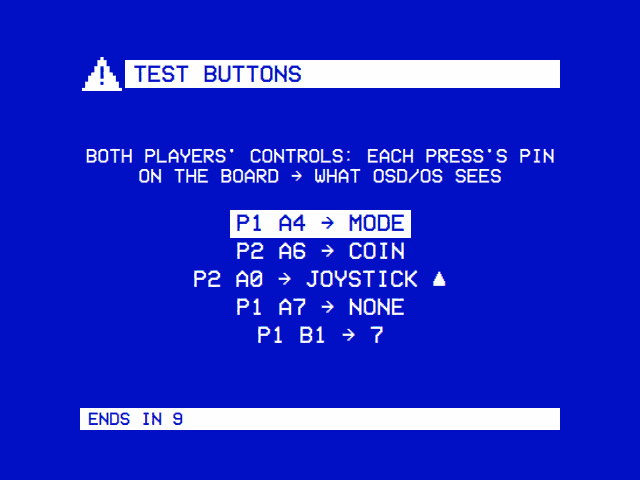
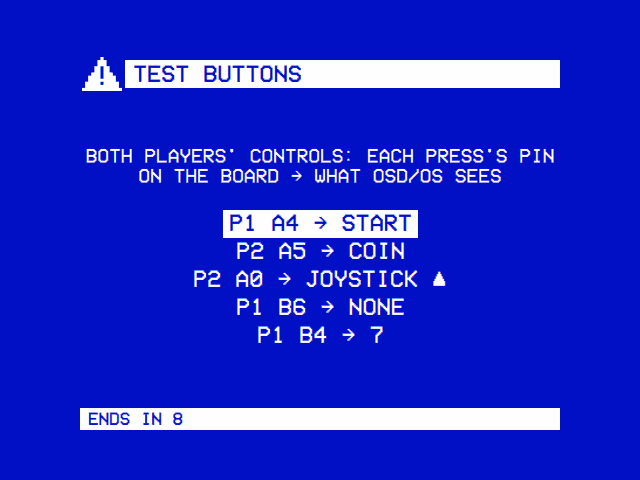
fix: JAMMA controls in the Crown board's pin order
The built-in mapping of osdos-jamma followed JammaPi's layout (joypi):
START on A5, COIN on A6, a mode button on A4, and the buttons counted
down from B7. Crown Arcade's Raspberry Pi to JAMMA board is wired in the
order of the driver Crown gives for it (mk_arcade_joystick_rpi): the
joystick on A0-A3, START on A4, COIN on A5, then buttons 1 to 6 on A6 to
B3. On a Crown board START therefore read as MODE, COIN as START, and
the buttons came out in the wrong order.

The built-in mapping is now the Crown board's, on both expanders:
buttons 1 to 6 as a, b, x, y, tl and tr (MAME's buttons 1 to 6), 7 and 8
on B4 and B5, z and mode on B6 and B7. A board wired in JammaPi's layout
gets it back with an osdos-jamma.txt, given in full on the Controls wiki
page, which also says to reset the JAMMA sticks' bindings made for the
old pins. The button test's screenshot is retaken with the new pins.

Changed region(s): [[0.3438, 0.4375, 0.6562, 0.5312], [0.4688, 0.6875, 0.5312, 0.7188], [0.4375, 0.625, 0.5, 0.6562]]

diff --git a/tests/jamma_test.cpp b/tests/jamma_test.cpp
@@ -31,21 +31,23 @@ class JammaTest : public QObject {
     Q_OBJECT
 
 private slots:
-    void defaultMapIsRgbPis() {
-        // The layout RGB-Pi's JAMMA driver (joypi) reads, the same on both
-        // chips: the joystick and Start, Coin on GPA, the buttons from GPB7 down.
+    void defaultMapIsCrowns() {
+        // The layout Crown Arcade's board is wired in (mk_arcade_joystick_rpi's),
+        // the same on both chips: the joystick, Start and Coin, then the
+        // buttons in their order from GPA6.
         const ChipMap p1 = defaultMap(0x20);
         QCOMPARE(int(p1.address), 0x20);
         const Input expected[16] = {
             Input::Up, Input::Down, Input::Left, Input::Right,
-            Input::Mode, Input::Start, Input::Coin, Input::Z,
-            Input::TR2, Input::TL2, Input::TR, Input::TL,
-            Input::Y, Input::X, Input::B, Input::A,
+            Input::Start, Input::Coin, Input::A, Input::B,
+            Input::X, Input::Y, Input::TL, Input::TR,
+            Input::TL2, Input::TR2, Input::Z, Input::Mode,
         };
         for (int pin = 0; pin < 16; ++pin)
             QCOMPARE(int(p1.pins[pin]), int(expected[pin]));
-        // Button 1 on GPB7, as on both chips.
-        QCOMPARE(int(defaultMap(0x21).pins[pinFromName("B7")]), int(Input::A));
+        // Button 1 on GPA6 and button 6 on GPB3, as on both chips.
+        QCOMPARE(int(defaultMap(0x21).pins[pinFromName("A6")]), int(Input::A));
+        QCOMPARE(int(defaultMap(0x21).pins[pinFromName("B3")]), int(Input::TR));
     }
 
     void pinAndInputNames() {
@@ -92,13 +94,13 @@ private slots:
 
     void buttonsGoOutAsTheirCodes() {
         Panel panel(defaultMap(0x20));
-        std::vector<Event> e = panel.update(bit("B7"), 1000);  // button 1
+        std::vector<Event> e = panel.update(bit("A6"), 1000);  // button 1
         QCOMPARE(int(e.size()), 1);
         QVERIFY(has(e, EV_KEY, BTN_A, 1));
-        e = panel.update(bit("B7") | bit("A5"), 1010);  // and Start
+        e = panel.update(bit("A6") | bit("A4"), 1010);  // and Start
         QVERIFY(has(e, EV_KEY, BTN_START, 1));
         QCOMPARE(int(e.size()), 1);
-        e = panel.update(bit("A6"), 1020);  // Coin; button 1 and Start let go
+        e = panel.update(bit("A5"), 1020);  // Coin; button 1 and Start let go
         QVERIFY(has(e, EV_KEY, BTN_SELECT, 1));
         QVERIFY(has(e, EV_KEY, BTN_A, 0));
         QVERIFY(has(e, EV_KEY, BTN_START, 0));
@@ -115,8 +117,8 @@ private slots:
         std::vector<ChipMap> maps = { defaultMap(0x20) };
         applyMapFile("0x20 B2 a", maps, nullptr);
         Panel panel(maps[0]);
-        QVERIFY(has(panel.update(bit("B7"), 1000), EV_KEY, BTN_A, 1));
-        QVERIFY(panel.update(bit("B7") | bit("B2"), 1010).empty());
+        QVERIFY(has(panel.update(bit("A6"), 1000), EV_KEY, BTN_A, 1));
+        QVERIFY(panel.update(bit("A6") | bit("B2"), 1010).empty());
         QVERIFY(panel.update(bit("B2"), 1020).empty());
         QVERIFY(has(panel.update(0, 1030), EV_KEY, BTN_A, 0));
     }
@@ -138,20 +140,20 @@ private slots:
 
     void bounceIsLetGoBy() {
         Panel panel(defaultMap(0x20), 5);
-        QVERIFY(has(panel.update(bit("B6"), 1000), EV_KEY, BTN_B, 1));
+        QVERIFY(has(panel.update(bit("A7"), 1000), EV_KEY, BTN_B, 1));
         // Opens and closes again within 5 ms: nothing goes out.
         QVERIFY(panel.update(0, 1001).empty());
-        QVERIFY(panel.update(bit("B6"), 1002).empty());
+        QVERIFY(panel.update(bit("A7"), 1002).empty());
         QVERIFY(panel.update(0, 1004).empty());
         // Still open once the 5 ms are up: the release goes out then.
         QVERIFY(has(panel.update(0, 1005), EV_KEY, BTN_B, 0));
         // Another pin isn't held back by this one's change.
-        QVERIFY(has(panel.update(bit("B7"), 1006), EV_KEY, BTN_A, 1));
+        QVERIFY(has(panel.update(bit("A6"), 1006), EV_KEY, BTN_A, 1));
     }
 
     void releaseAllLetsGoAtOnce() {
         Panel panel(defaultMap(0x20), 5);
-        panel.update(bit("B7") | bit("A2"), 1000);
+        panel.update(bit("A6") | bit("A2"), 1000);
         const std::vector<Event> e = panel.releaseAll(1001);
         QVERIFY(has(e, EV_KEY, BTN_A, 0));
         QVERIFY(has(e, EV_ABS, ABS_X, 0));

diff --git a/src/jamma/JammaPanel.h b/src/jamma/JammaPanel.h
@@ -6,10 +6,11 @@
 // A Raspberry Pi to JAMMA board's controls, as osdos-jamma reads them: two
 // MCP23017 port expanders on I2C, player 1's at 0x20 and player 2's at 0x21,
 // each switch closing a pin to ground. What each pin is (the joystick, the
-// buttons, Start, Coin) is a mapping. The built-in one is the layout RGB-Pi's
-// JAMMA driver reads (joypi, from JammaPi, the driver RGUI-Pi uses), the layout
-// of the boards made for it: RGB-Pi's JAMMA, Crown Arcade's. Apart from the I2C
-// and uinput side, so the tests can drive it.
+// buttons, Start, Coin) is a mapping. The built-in one is the layout Crown
+// Arcade's board is wired in, that of the driver it gives for it
+// (mk_arcade_joystick_rpi): the joystick, Start and Coin, then the buttons in
+// their order. A board wired otherwise takes a mapping file. Apart from the
+// I2C and uinput side, so the tests can drive it.
 namespace jamma {
 
 // What a pin is. The joystick goes out as a digital stick (ABS_X, ABS_Y from
@@ -37,10 +38,11 @@ struct ChipMap {
     Input pins[16] = {};
 };
 
-// The built-in mapping, the same on both expanders, as RGB-Pi's driver reads
-// it: GPA0-3 the joystick (up, down, left, right), GPA4 its "select" (mode),
-// GPA5 start, GPA6 coin, GPA7 its "alt" (z); the buttons from GPB7 down,
-// button 1 to 6 on GPB7 to GPB2 (a, b, x, y, tl, tr), then GPB1 tl2, GPB0 tr2.
+// The built-in mapping, the same on both expanders, in the order Crown
+// Arcade's board has them: GPA0-3 the joystick (up, down, left, right), GPA4
+// start, GPA5 coin, then the buttons from GPA6 up, button 1 to 6 on GPA6 to
+// GPB3 (a, b, x, y, tl, tr), 7 and 8 on GPB4 and GPB5 (tl2, tr2), and GPB6 z,
+// GPB7 mode.
 ChipMap defaultMap(uint8_t address);
 // "A0".."B7" (or "GPA0".."GPB7") -> 0..15; -1 for anything else.
 int pinFromName(const std::string &name);

diff --git a/src/jamma/JammaPanel.cpp b/src/jamma/JammaPanel.cpp
@@ -107,12 +107,12 @@ ChipMap defaultMap(uint8_t address) {
     ChipMap map;
     map.address = address;
     const Input pins[16] = {
-        // GPA0-7
+        // GPA0-7: the joystick, Start, Coin, then buttons 1 and 2
         Input::Up, Input::Down, Input::Left, Input::Right,
-        Input::Mode, Input::Start, Input::Coin, Input::Z,
-        // GPB0-7: the buttons from GPB7 down
-        Input::TR2, Input::TL2, Input::TR, Input::TL,
-        Input::Y, Input::X, Input::B, Input::A,
+        Input::Start, Input::Coin, Input::A, Input::B,
+        // GPB0-7: buttons 3 to 8, then the two extras
+        Input::X, Input::Y, Input::TL, Input::TR,
+        Input::TL2, Input::TR2, Input::Z, Input::Mode,
     };
     std::copy(std::begin(pins), std::end(pins), map.pins);
     return map;

diff --git a/docs/wiki/Controls.md b/docs/wiki/Controls.md
@@ -148,23 +148,53 @@ On the OSD/OS image, with a Raspberry Pi to JAMMA board in RGB-Pi's layout and t
 - **Bounce.** A switch's bounce in the 5 ms after it closes or opens is let go by.
 - **Six buttons on the edge.** A cabinet with buttons 4 to 6 on the JAMMA edge, pins 27 and e among them (CHAMMA), needs the board's JP1 and JP2 on CHAMMA ([Display Output → A Raspberry Pi to JAMMA board](https://github.com/mehmetraif/OSD-OS/wiki/Display-Output#a-raspberry-pi-to-jamma-board)).
 
-With the built-in mapping, the same on both expanders: the layout of RGB-Pi's own driver for these boards.
+With the built-in mapping, the same on both expanders: the layout Crown Arcade's board is wired in, that of the driver Crown gives for it (mk_arcade_joystick_rpi). The joystick, START and COIN come first, then the buttons in their order.
 
 | Pin | Input | In OSD/OS's menus |
 |---|---|---|
 | A0, A1, A2, A3 | Joystick up, down, left, right | Up, Down, Left, Right |
-| A5 | `start` | Play/pause |
-| A6 | `coin` (the pad's Back/Select button) | Back |
-| B7 | Button 1: `a` | Select |
-| B6 | Button 2: `b` | Back |
-| B5, B4 | Buttons 3 and 4: `x`, `y` | Nothing, until the stick's page in Settings → Controls or `input.cfg` gives them an action |
-| B3, B2 | Buttons 5 and 6: `tl`, `tr` (the shoulders) | Left, Right |
-| B1, B0 | Buttons 7 and 8: `tl2`, `tr2` | Nothing |
-| A4, A7 | `mode`, `z` | Nothing |
+| A4 | `start` | Play/pause |
+| A5 | `coin` (the pad's Back/Select button) | Back |
+| A6 | Button 1: `a` | Select |
+| A7 | Button 2: `b` | Back |
+| B0, B1 | Buttons 3 and 4: `x`, `y` | Nothing, until the stick's page in Settings → Controls or `input.cfg` gives them an action |
+| B2, B3 | Buttons 5 and 6: `tl`, `tr` (the shoulders) | Left, Right |
+| B4, B5 | Buttons 7 and 8: `tl2`, `tr2` | Nothing |
+| B6, B7 | `z`, `mode` | Nothing |
 
-**Which of your cabinet's buttons is on which pin** depends on the board and the harness. To see, open Settings → Controls → OSD/OS JAMMA P1 (or P2) → **Test Buttons** and press each control in turn. Both players' controls are tested at once, and each press shows its player, its pin on the board and what OSD/OS sees: `P1 B1 → 7`, or `P1 A7 → NONE` for a pin the sticks don't show (one the mapping makes `z`, `c` or `none`). A control that shows no line at all reaches neither expander. The test ends 10 seconds after the last press ([A controller's own page](https://github.com/mehmetraif/OSD-OS/wiki/Controls#a-controllers-own-page)).
+Up to OSD/OS v0.0.11 the built-in mapping was the layout JammaPi's driver (joypi) reads. Bindings made then in Settings → Controls were made for those pins: after the update, choose **Reset to Defaults** on each JAMMA stick's page. A board wired in JammaPi's layout gets it back with this `osdos-jamma.txt` (how to write one is below):
 
-<img src="https://raw.githubusercontent.com/mehmetraif/OSD-OS/main/docs/screenshots/controller-test.png" width="50%" alt="TEST BUTTONS: BOTH PLAYERS' CONTROLS: EACH PRESS'S PIN ON THE BOARD → WHAT OSD/OS SEES, then P1 A4 → MODE (the last, boxed), P2 A6 → COIN, P2 A0 → JOYSTICK ▲, P1 A7 → NONE, P1 B1 → 7. ENDS IN 9" />
+```text
+# osdos-jamma.txt: JammaPi's layout (joypi), on both expanders
+0x20 A4 mode
+0x20 A5 start
+0x20 A6 coin
+0x20 A7 z
+0x20 B0 tr2
+0x20 B1 tl2
+0x20 B2 tr
+0x20 B3 tl
+0x20 B4 y
+0x20 B5 x
+0x20 B6 b
+0x20 B7 a
+0x21 A4 mode
+0x21 A5 start
+0x21 A6 coin
+0x21 A7 z
+0x21 B0 tr2
+0x21 B1 tl2
+0x21 B2 tr
+0x21 B3 tl
+0x21 B4 y
+0x21 B5 x
+0x21 B6 b
+0x21 B7 a
+```
+
+**Which of your cabinet's buttons is on which pin** depends on the board and the harness. To see, open Settings → Controls → OSD/OS JAMMA P1 (or P2) → **Test Buttons** and press each control in turn. Both players' controls are tested at once, and each press shows its player, its pin on the board and what OSD/OS sees: `P1 B4 → 7`, or `P1 B6 → NONE` for a pin the sticks don't show (one the mapping makes `z`, `c` or `none`). A control that shows no line at all reaches neither expander. The test ends 10 seconds after the last press ([A controller's own page](https://github.com/mehmetraif/OSD-OS/wiki/Controls#a-controllers-own-page)).
+
+<img src="https://raw.githubusercontent.com/mehmetraif/OSD-OS/main/docs/screenshots/controller-test.png" width="50%" alt="TEST BUTTONS: BOTH PLAYERS' CONTROLS: EACH PRESS'S PIN ON THE BOARD → WHAT OSD/OS SEES, then P1 A4 → START (the last, boxed), P2 A5 → COIN, P2 A0 → JOYSTICK ▲, P1 B6 → NONE, P1 B4 → 7. ENDS IN 8" />
 
 The same comes from Exit to Terminal, or over SSH (the first user may read the I2C bus):
 
@@ -172,15 +202,15 @@ The same comes from Exit to Terminal, or over SSH (the first user may read the I
 /opt/osdos/bin/osdos-jamma --test
 ```
 
-It plays nothing, and prints each pin as it changes, with what the mapping makes of it: `P1 0x20 B7 pressed  a`. Ctrl+C ends it. The service goes on reading beside it, and Test Buttons runs this same test.
+It plays nothing, and prints each pin as it changes, with what the mapping makes of it: `P1 0x20 A6 pressed  a`. Ctrl+C ends it. The service goes on reading beside it, and Test Buttons runs this same test.
 
 **A button on another pin.** Write `osdos-jamma.txt` on the boot partition, beside `config.txt`. From a computer it is the **bootfs** drive. A line a pin, `<address> <pin> <input>`:
 
 ```text
 # osdos-jamma.txt: a Raspberry Pi to JAMMA board's pins, where they differ
-0x20 B7 b       # player 1's first two buttons the other way round
-0x20 B6 a
-0x21 A4 none    # and nothing on player 2's A4
+0x20 A6 b       # player 1's first two buttons the other way round
+0x20 A7 a
+0x21 B7 none    # and nothing on player 2's B7
 ```
 
 - **The inputs** are `up`, `down`, `left`, `right`, `start`, `coin`, `a`, `b`, `x`, `y`, `tl`, `tr`, `tl2`, `tr2`, `c`, `z`, `mode` and `none`.

diff --git a/ARCHITECTURE.md b/ARCHITECTURE.md
@@ -546,8 +546,8 @@ A key held down repeats in Qt, and a Bluetooth keyboard can make keys look held 
 A Raspberry Pi to JAMMA board in RGB-Pi's layout reads the cabinet's joysticks and buttons through two MCP23017 port expanders on I2C0 (GPIO 0 and 1), player 1's at 0x20, player 2's at 0x21. They reach the app as two gamepads, so nothing in `InputManager` or the views needs to know about them, but for their name: a pad called `OSD/OS JAMMA …` is an arcade's, its buttons numbered (Settings → Controls), and is named from its device, not its SDL mapping (SDL hands P2, which has no vendor or product, the mapping it made for P1, name and all):
 
 - **`osdos-jamma`** (`src/jamma/`, a program of its own, no Qt, built on Linux beside the app and installed in its `bin/`) sets every pin an input with its pull-up, reads both ports of both expanders every 2 ms (one `I2C_RDWR` each), and plays what changes on two uinput gamepads, **OSD/OS JAMMA P1** and **P2**: the joystick a digital stick on `ABS_X`/`ABS_Y` (−1 to 1), as RGB-Pi's own driver has it and MAME takes by default, the rest gamepad buttons. Every pad has every button (`allButtons()`), so SDL maps it as a gamepad by itself (it needs `BTN_A`), and RetroArch or MAME see the same pads. Both players are looked for from the start: one whose expander answers late gets its pad then.
-- **`JammaPanel`** is the part with no I/O, which `tests/jamma_test.cpp` drives: the mapping, pin by pin (the built-in one is that of RGB-Pi's driver, JammaPi's `joypi`), a mapping file over it (`/boot/firmware/osdos-jamma.txt`, `<address> <pin> <input>` a line), and a 5 ms bounce window per pin. An input is held while any of its pins is. An expander with no good read for 50 ms has its buttons let go (`releaseAll()`), and is set up again every half second until it answers.
-- **The OS image** runs it as `osdos-jamma.service`, before the app. Not as root, as `/opt/osdos` is the app user's: `DynamicUser=yes`, with the groups `i2c` (the bus) and `input` (`/dev/uinput`, which `99-osdos-uinput.rules` gives that group). It loads `i2c-dev` and `uinput` (`/etc/modules-load.d/osdos-jamma.conf`). Only the JAMMA display preset turns I2C0 on, and says so (`# osdos-controls: jamma`); with it in force the program waits up to 15 seconds for the bus as the system comes up, and without it it exits 0 at once. `--test` prints each pin as it changes instead of playing it: how a board's wiring is found out. The app runs it for a JAMMA stick's **Test Buttons** (`InputManager::watchJammaPins()`, `src/input/JammaPins`, from the app's own folder, beside the service's reads): `jammaPinPressed(player, pin, input)` comes for every pin pressed on either expander, those SDL never shows (`z`, `c`, `none`) among them, and `ControllerSettings.qml` pairs each with the stick's press of the same moment (`P1 B1 → 7`, or `P1 A7 → NONE`). The app user may read the bus: pi-gen puts the first user in the `i2c` group.
+- **`JammaPanel`** is the part with no I/O, which `tests/jamma_test.cpp` drives: the mapping, pin by pin (the built-in one is the layout Crown Arcade's board is wired in, that of `mk_arcade_joystick_rpi`: the joystick, Start and Coin on GPA0-5, buttons 1 to 8 on GPA6 to GPB5), a mapping file over it (`/boot/firmware/osdos-jamma.txt`, `<address> <pin> <input>` a line), and a 5 ms bounce window per pin. An input is held while any of its pins is. An expander with no good read for 50 ms has its buttons let go (`releaseAll()`), and is set up again every half second until it answers.
+- **The OS image** runs it as `osdos-jamma.service`, before the app. Not as root, as `/opt/osdos` is the app user's: `DynamicUser=yes`, with the groups `i2c` (the bus) and `input` (`/dev/uinput`, which `99-osdos-uinput.rules` gives that group). It loads `i2c-dev` and `uinput` (`/etc/modules-load.d/osdos-jamma.conf`). Only the JAMMA display preset turns I2C0 on, and says so (`# osdos-controls: jamma`); with it in force the program waits up to 15 seconds for the bus as the system comes up, and without it it exits 0 at once. `--test` prints each pin as it changes instead of playing it: how a board's wiring is found out. The app runs it for a JAMMA stick's **Test Buttons** (`InputManager::watchJammaPins()`, `src/input/JammaPins`, from the app's own folder, beside the service's reads): `jammaPinPressed(player, pin, input)` comes for every pin pressed on either expander, those SDL never shows (`z`, `c`, `none`) among them, and `ControllerSettings.qml` pairs each with the stick's press of the same moment (`P1 B4 → 7`, or `P1 B6 → NONE`). The app user may read the bus: pi-gen puts the first user in the `i2c` group.
 
 ### The mouse pointer
 

diff --git a/tests/README.md b/tests/README.md
@@ -111,7 +111,7 @@ ctest --test-dir build-tests --output-on-failure
   - The commits since the previous tag, by subject: `feat:` and "Add…" under What's New, `fix:` and "Fix…" under Bug Fixes, the rest under Changelog; a merge commit left out, a subject listed once, its `<` and `>` escaped.
   - The previous tag found by itself or given; the first release lists the whole history; a section with nothing in it is left out; no tag is an error.
 - **jamma** (`jamma_test.cpp`, Linux only). A Raspberry Pi to JAMMA board's pins as gamepad events (`src/jamma`, `osdos-jamma`).
-  - The built-in mapping is that of RGB-Pi's driver (JammaPi's `joypi`), on both expanders.
+  - The built-in mapping is the layout Crown Arcade's board is wired in (`mk_arcade_joystick_rpi`'s): the joystick, Start and Coin, then the buttons in their order from GPA6, on both expanders.
   - A mapping file moves pins and takes them out; its bad lines are named and change nothing.
   - Buttons go out as their codes, a button on two pins held while either is; the joystick as a digital stick on two axes (up and down together: neither).
   - A switch's bounce within 5 ms is let go by, without holding back another pin; an expander lost lets go of everything at once.
